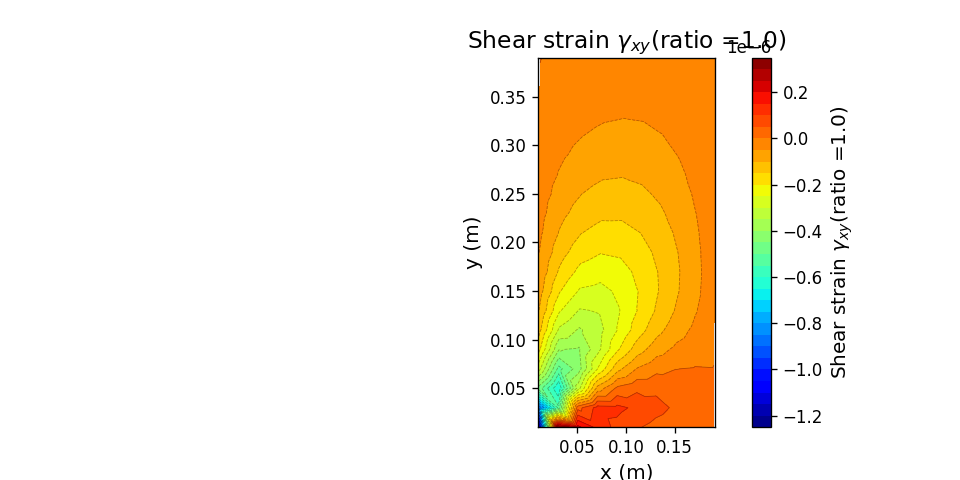
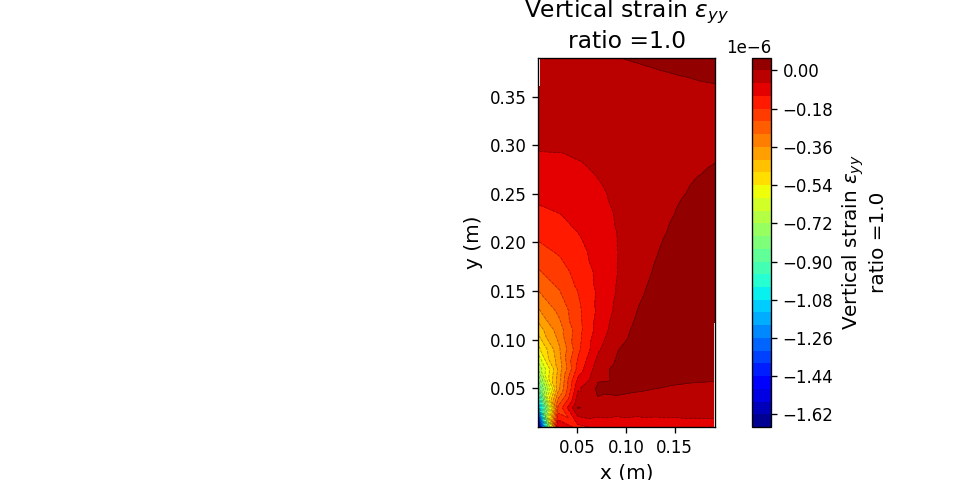
.

diff --git a/MHA021/CA2/CA2.py b/MHA021/CA2/CA2.py
@@ -101,16 +101,6 @@ sigma_analytic = (M_max * c) / I
 
 def task12(element_type='cst', nelx=50, nely=10, plot_n_print=False, W=5):
 
-    # Analytical: simply supported beam with uniform load
-    L = W * 2
-    A = t * H
-    I = (t * (H**3)) / 12
-    w = rho * A * g 
-    delta_analytic = -(5 * w * (L**4)) / (384 * E * I)
-    M_max = (w * (L**2)) / 8
-    c = H / 2
-    sigma_analytic = (M_max * c) / I
-
     if element_type == 'cst':
         mesh = MeshGenerator.structured_rectangle_mesh(
             width=W,
@@ -138,15 +128,12 @@ def task12(element_type='cst', nelx=50, nely=10, plot_n_print=False, W=5):
         fig = plot_mesh(nodes, elements, edge_nodes)
         sfig('Mesh.png')
         fig.show()
-        # displayvar('right edge nodes', edge_nodes['right'])
-        # display(Edof)
     else:
         pass
     
     edof_map = build_edof(elements, dofs_per_node=2)
 
     D = hooke_2d_plane_stress(E, nu)
-    # displayvar('D', D)
     
     ndofs = nodes.shape[0] * 2
     K = np.zeros((ndofs, ndofs))
@@ -162,8 +149,6 @@ def task12(element_type='cst', nelx=50, nely=10, plot_n_print=False, W=5):
         dofs = Edof[el, :]
         assem(K, Ke, dofs)
         assem(f, fe, dofs)
-    # displayvar('K', K, accuracy=3)
-    # displayvar('f', f, accuracy=3)
     
     bc_dofs = []
     bc_vals = []
@@ -190,13 +175,10 @@ def task12(element_type='cst', nelx=50, nely=10, plot_n_print=False, W=5):
         print("support node not found")
         
     a, r = solve_eq(K, f, bc_dofs, bc_vals)
-    # displayvar('a', a, accuracy=3)
-    # displayvar('r', r, accuracy=3)
     
     right_dofs_y = [2 * (n - 1) + 2 for n in right_nodes]
     uy_right = a[np.array(right_dofs_y) - 1]
     uy_avg = np.mean(uy_right)
-    # displayvar('u_{right, avg}', avg_deflection, accuracy=3)
     
     ed = extract_dofs(a, Edof)
     if plot_n_print == True:
@@ -221,22 +203,41 @@ def task12(element_type='cst', nelx=50, nely=10, plot_n_print=False, W=5):
             
         el_stress[el, :] = σe
         el_strain[el, :] = ϵe
-    # displayvar('σ', el_stresses, accuracy=3)
-    
+        
     el_right_edge = [el for el in range(len(elements)) 
                   if sum(n in right_nodes for n in elements[el, :]) >= 2]
 
-    right_edge_stress = el_stress[el_right_edge, :] # stresses at right edge
-    sigmaxx_max = np.max(np.abs(right_edge_stress[:, 0])) # maximum normal stress
+    right_edge_stress = el_stress[el_right_edge, :]
+    sigmaxx_max = np.max(np.abs(right_edge_stress[:, 0]))
+    
+    # displayvar('D', D)
+    # displayvar('K', K, accuracy=3)
+    # displayvar('f', f, accuracy=3)
+    # displayvar('a', a, accuracy=3)
+    # displayvar('r', r, accuracy=3)
+    # displayvar('u_{right, avg}', avg_deflection, accuracy=3)
+    # displayvar('σ', el_stresses, accuracy=3)
         
-    # print(f'\n number of DOFs: {ndofs}')
-    # print(f'\nComparison with analytical solution:')
-    # print(f'Deflection: {uy_avg:.3e} m vs {delta_analytic:.3e} m')
-    # print(f'Stress: {sigmaxx_max:.3e} Pa vs {sigma_analytic:.3e} Pa')
+    print(f'\n number of DOFs: {ndofs}')
+    print(f'Deflection: {uy_avg:.3e} m')
+    print(f'Stress: {sigmaxx_max:.3e} Pa')
+    
+    # Analytical: simply supported beam with uniform load
+    L = W * 2
+    A = t * H
+    I = (t * (H**3)) / 12
+    w = rho * A * g 
+    delta_analytic = -(5 * w * (L**4)) / (384 * E * I)
+    M_max = (w * (L**2)) / 8
+    c = H / 2
+    sigma_analytic = (M_max * c) / I
     
     # Displacement and stress fractions
     f_uy = uy_avg / delta_analytic
     f_sigmaxx = sigmaxx_max / sigma_analytic
+    print(f'\nComparison with analytical solution:')
+    print(f'Deflection fraction (result / analytical): {f_uy:.2e}')
+    print(f'Stress fraction (result / analytical): {f_sigmaxx:.2e}')
 
     return uy_avg, sigmaxx_max, ndofs, f_uy, f_sigmaxx, nodes, elements, el_centers, el_stress, el_strain
 
@@ -258,18 +259,17 @@ new_subtask('Task 1 - Convergence')
 nelx_list = []
 for i in range(5):
     nelx_list.append(int(300 / np.sqrt(2)**(4 - i)))
-    
 nely_list = [int(i * (H / W)) for i in nelx_list]
-print(nelx_list)
-print(nely_list)
 
 uy_avg_list = []
 sigmaxx_max_list = []
 ndofs_list = []
 f_uy_list = []
 f_sigmaxx_list = []
+
 for i in range(len(nelx_list)):
     uy_avg, sigmaxx_max, ndofs, f_uy, f_sigmaxx, nodes, elements, el_centers, el_stress, el_strain = task12(element_type='cst', nelx=nelx_list[i], nely=nely_list[i])
+    
     uy_avg_list.append(uy_avg)
     sigmaxx_max_list.append(sigmaxx_max)
     ndofs_list.append(ndofs)
@@ -280,14 +280,14 @@ for i in range(len(nelx_list)):
         rel_change_uy = (f_uy_list[i] - f_uy_list[i -1 ]) / f_uy_list[i]
         rel_change_sigmaxx = (f_sigmaxx_list[i] - f_sigmaxx_list[i - 1]) / f_sigmaxx_list[i]
 
-        print(f'relative change in displacement: {rel_change_uy} %')
-        print(f'relative change in stress: {rel_change_sigmaxx} %')
+        print(f'relative change in displacement: {rel_change_uy:.2e} %')
+        print(f'relative change in stress: {rel_change_sigmaxx:.2e} %')
         
         if rel_change_uy <= 0.01:
-            print(f'Deflection convergence for NDOF = {ndofs}')
+            print(f'Deflection convergence for NDOF = {ndofs:.2e}')
         
         if rel_change_sigmaxx <= 0.01:
-            print(f'Stress convergence for NDOF = {ndofs}')
+            print(f'Stress convergence for NDOF = {ndofs:.2e}')
 
 plt.figure()
 plt.plot(ndofs_list, uy_avg_list, 'X-')
@@ -616,8 +616,8 @@ for r in ratios:
     f_sigmaxx_list.append(f_sigmaxx)
     
     if r in [1, 4, 16]:
-        shear_strain = el_strain[:, 2]
-        plot_single_contour(el_centers, shear_strain, 'Shear strain $\gamma_{xy} $' + f'(ratio ={r})', 'Shear strain_' + str(r), cmap='jet')
+        shear_strain = el_strain[:, 1]
+        plot_single_contour(el_centers, shear_strain, 'Vertical strain $\epsilon_{yy}$' + f'\nratio ={r}', 'Shear strain_' + str(r), cmap='jet')
 
 plt.figure()
 plt.plot(ratios, f_uy_list, 'o-', label='displacement', alpha=0.75)
